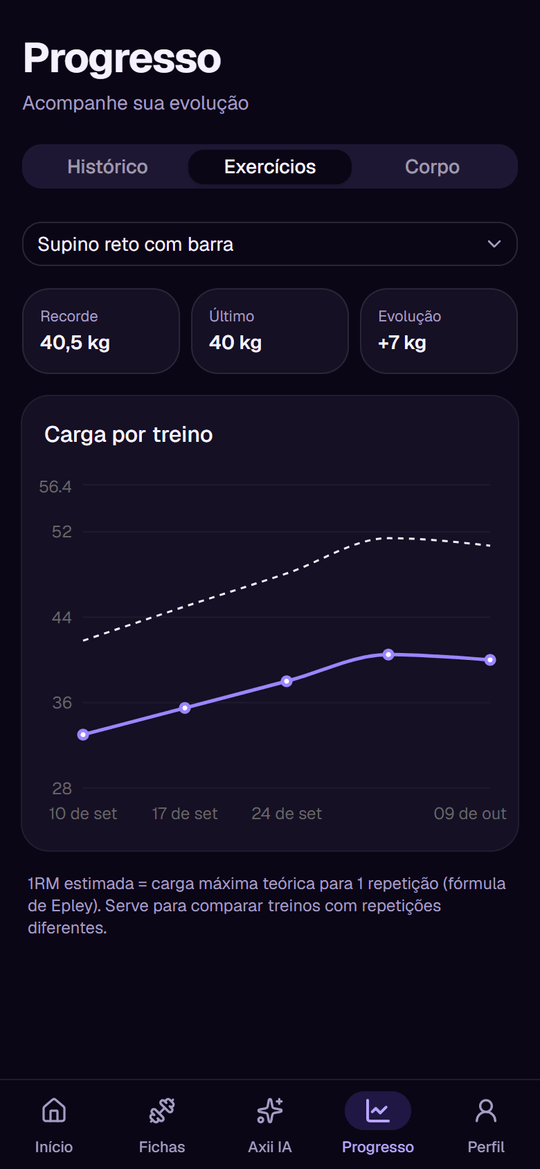
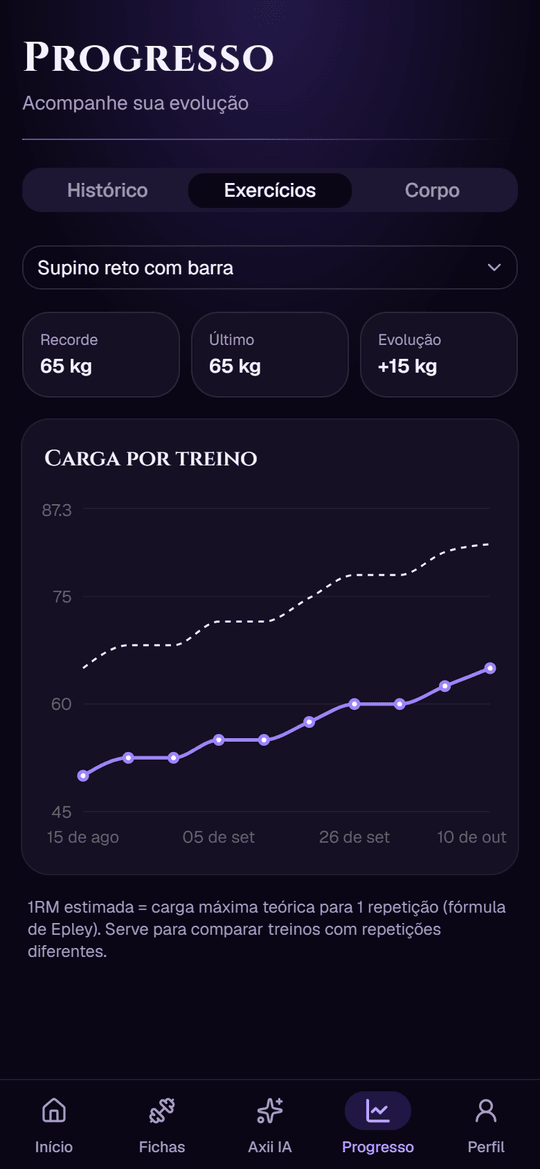
Atualiza README com o visual novo
- Prints novos, incluindo a tela de treino concluído
- Funcionalidades: animação de conclusão, recordes e tela inicial

diff --git a/README.md b/README.md
@@ -10,17 +10,22 @@
 </p>
 
 <p align="center">
-  <img src="docs/screenshots/login.png" width="180" alt="Tela de login" />
-  <img src="docs/screenshots/inicio.png" width="180" alt="Tela inicial" />
-  <img src="docs/screenshots/treino.png" width="180" alt="Treino em andamento" />
-  <img src="docs/screenshots/progresso.png" width="180" alt="Gráfico de progresso" />
-  <img src="docs/screenshots/ia.png" width="180" alt="Geração de plano com IA" />
+  <img src="docs/screenshots/inicio.png" width="200" alt="Tela inicial com o próximo treino e a semana" />
+  <img src="docs/screenshots/treino.png" width="200" alt="Treino em andamento com cronômetro de descanso" />
+  <img src="docs/screenshots/conclusao.png" width="200" alt="Animação de treino concluído com novo recorde" />
+</p>
+<p align="center">
+  <img src="docs/screenshots/progresso.png" width="200" alt="Gráfico de evolução de carga" />
+  <img src="docs/screenshots/ia.png" width="200" alt="Geração de plano com IA" />
+  <img src="docs/screenshots/login.png" width="200" alt="Tela de login" />
 </p>
 
 ## Funcionalidades
 
 - **Fichas de treino:** exercícios com séries, repetições, carga e descanso.
-- **Modo treino:** registro série a série, com cronômetro de descanso. O progresso é salvo automaticamente se o app fechar.
+- **Modo treino:** registro série a série, cronômetro de descanso e o recorde de cada exercício à vista. O progresso é salvo automaticamente se o app fechar.
+- **Sinal conjurado:** ao concluir um treino, uma animação do olho de bruxo apresenta o resumo (duração, séries, volume) e os novos recordes.
+- **Início:** próximo treino da rotação (A → B → C), meta semanal com os dias treinados e a variação de peso.
 - **Progresso:** histórico de treinos, evolução de carga por exercício (com 1RM estimada) e medidas corporais.
 - **Axii IA:** o Gemini monta um plano personalizado a partir do objetivo, do nível e dos dias disponíveis, e o plano vira fichas com um toque.
 - **App instalável:** ícone, splash screens para iOS e funcionamento em tela cheia.
@@ -90,4 +95,4 @@ Mais detalhes técnicos, erros comuns e decisões de arquitetura estão em [docs
 
 ---
 
-<sub>O nome e o ícone fazem uma homenagem ao sinal Axii da série <i>The Witcher</i>. O projeto não tem afiliação com a CD PROJEKT RED nem com Andrzej Sapkowski.</sub>
+<sub>O nome e o visual são uma homenagem à série <i>The Witcher</i>: o sinal Axii e os olhos de gato dos bruxos. O projeto não tem afiliação com a CD PROJEKT RED nem com Andrzej Sapkowski.</sub>
